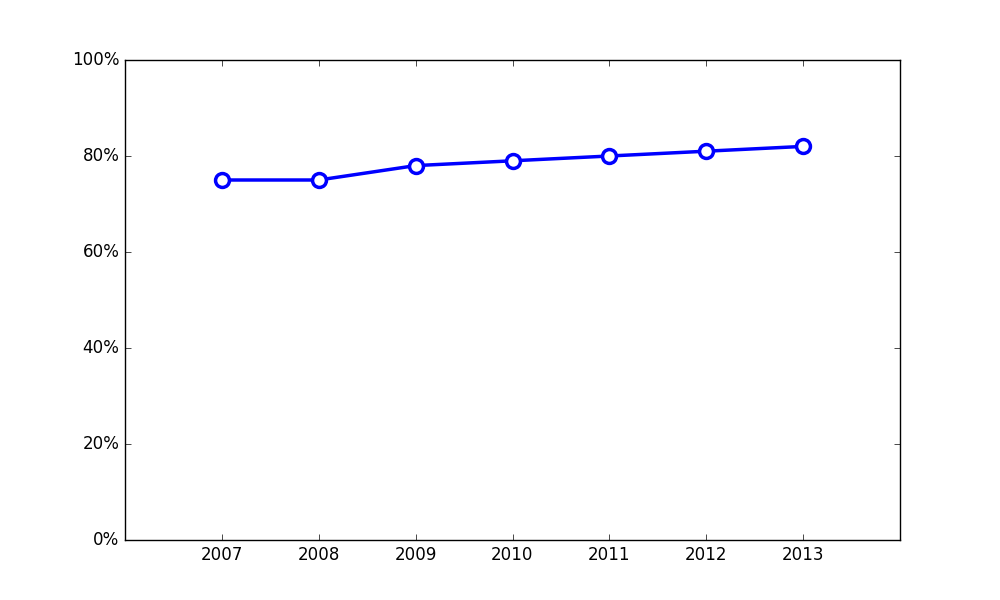
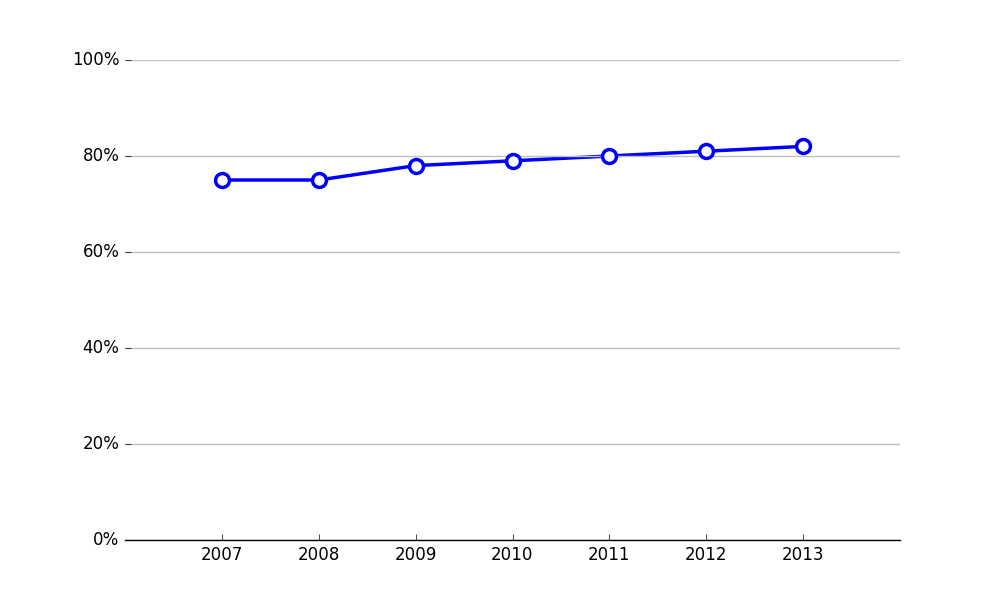
Cosmetic changes

diff --git a/exercise-3-sol.py b/exercise-3-sol.py
@@ -15,14 +15,24 @@ Y = [75,75,78,79,80,81,82]
 fig = plt.figure(figsize=(10,6))
 ax = fig.add_subplot(111)
 
+for y in np.arange(0,101,20):
+    ax.axhline(y,color='.75', zorder=-100)
+
 plt.scatter(X, Y, s=100, color='white', linewidth=2.5, edgecolor='blue', zorder=10)
-plt.plot(X,Y, color='blue', linewidth=2.5)
+plt.plot(X,Y, color='blue', linewidth=2.5, zorder=0)
 
 plt.xlim(2006,2014)
 plt.xticks(X, ['%d' % x for x in X])
 
 plt.ylim(0,100)
 plt.yticks(np.arange(0,101,20), ["%d%%" % x for x in np.arange(0,101,20)])
+
+
+ax.spines['right'].set_color('none')
+ax.spines['top'].set_color('none')
+ax.spines['left'].set_color('none')
+ax.xaxis.set_ticks_position('bottom')
+ax.yaxis.set_ticks_position('left')
 
 plt.savefig("exercise-3-sol.png")
 plt.show()
